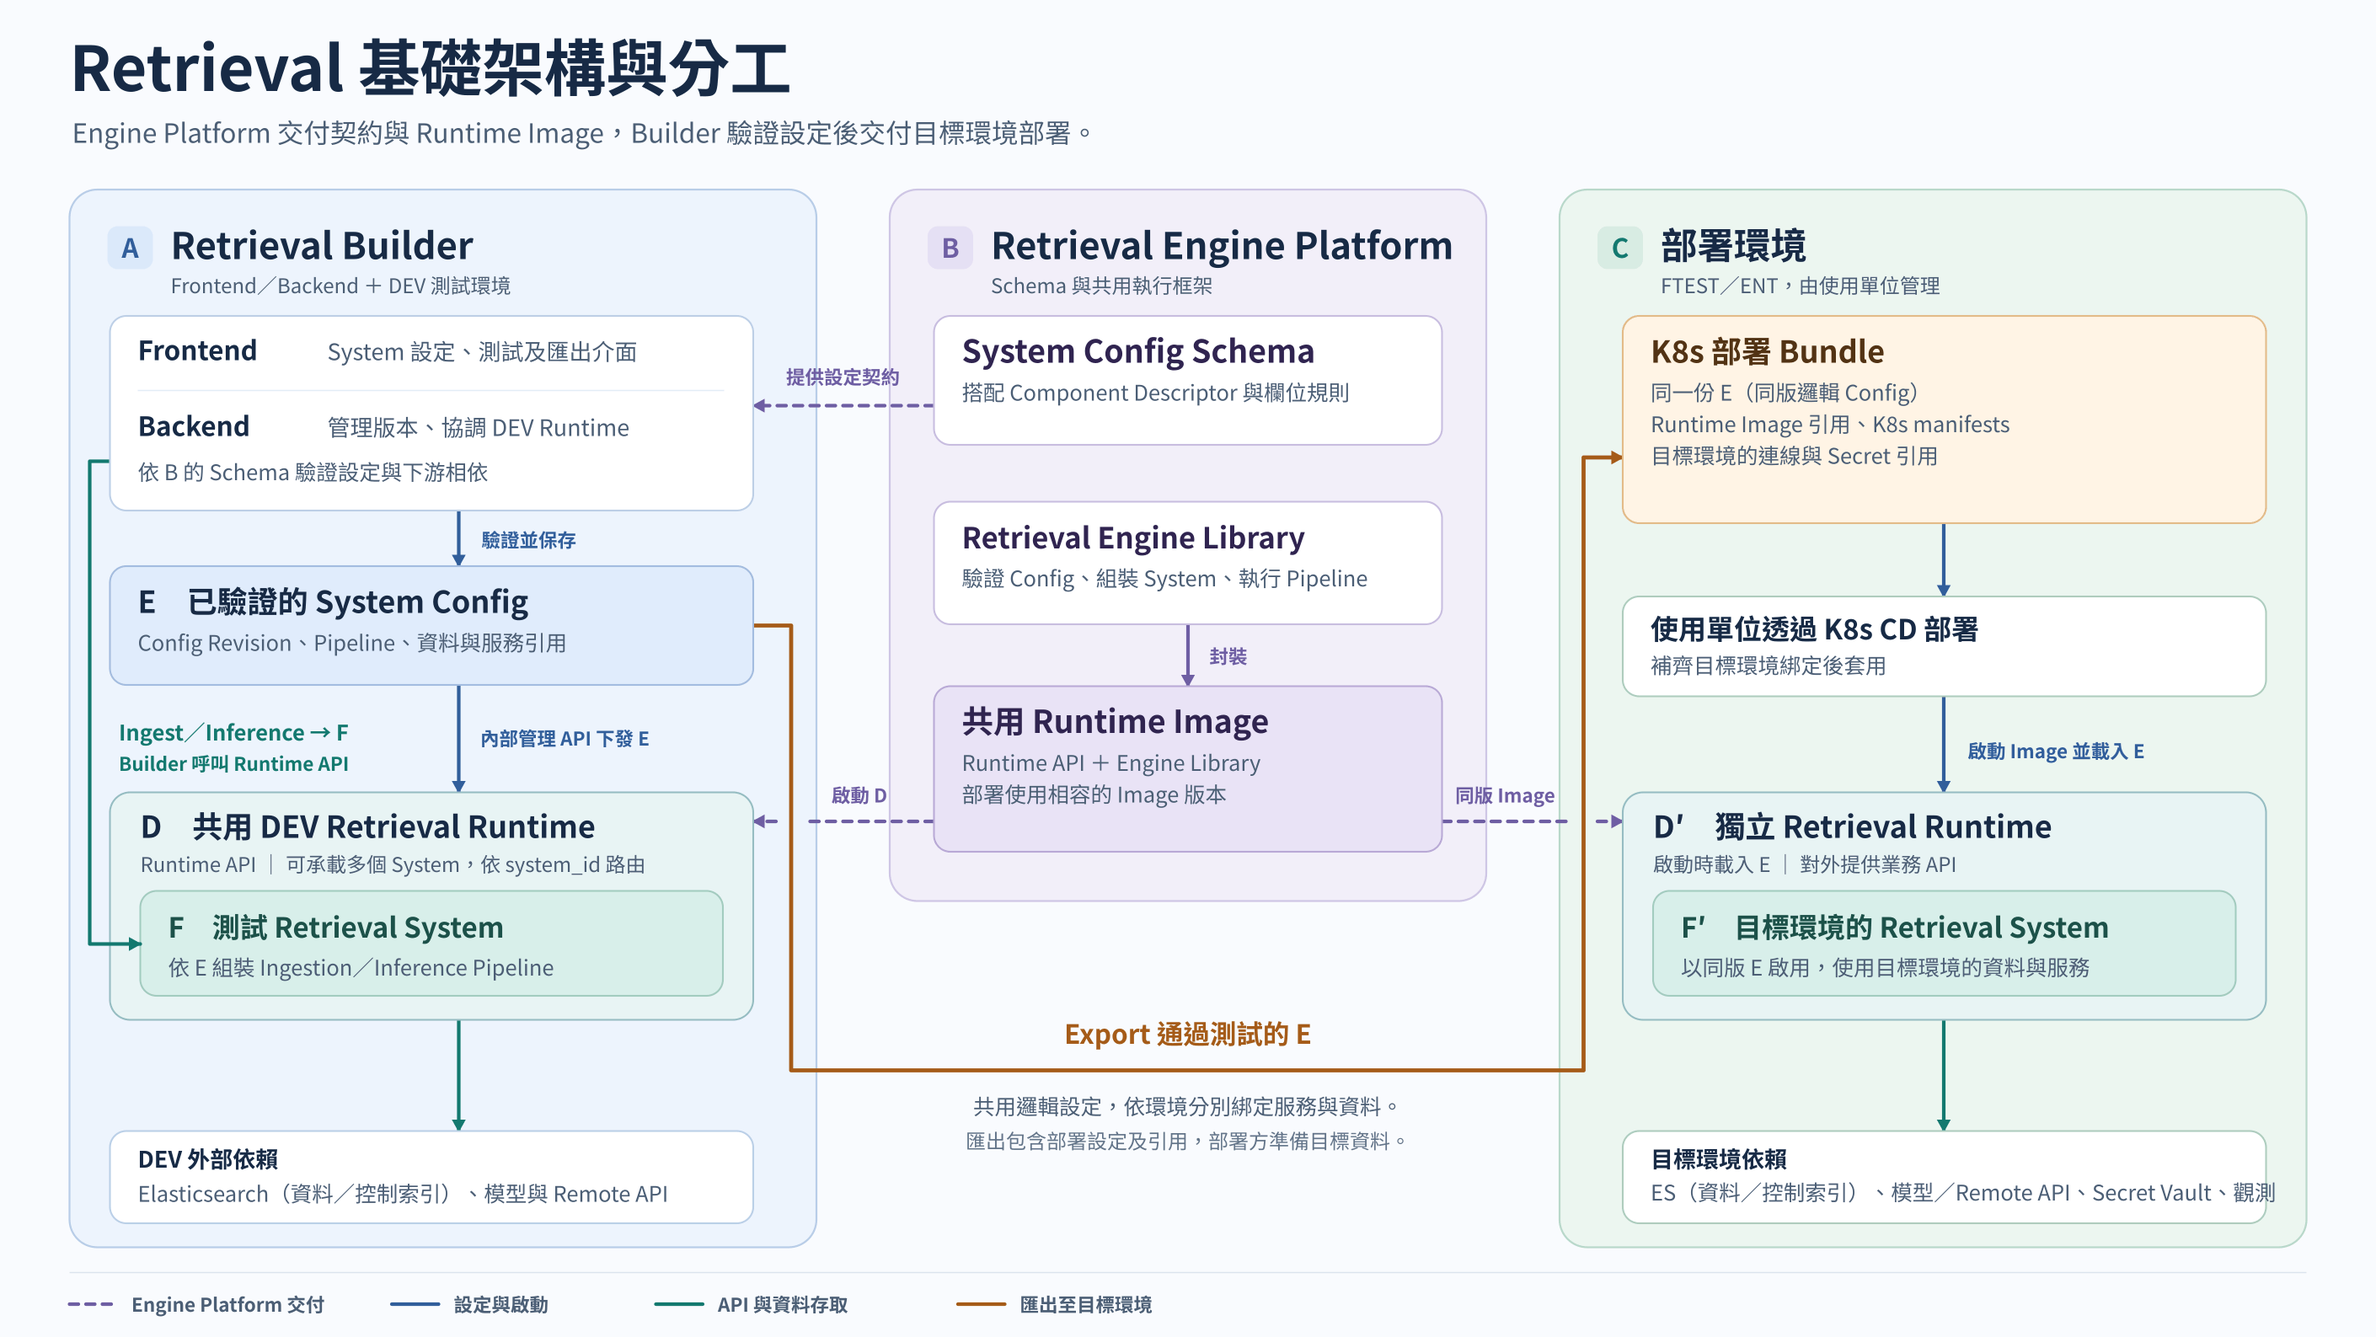
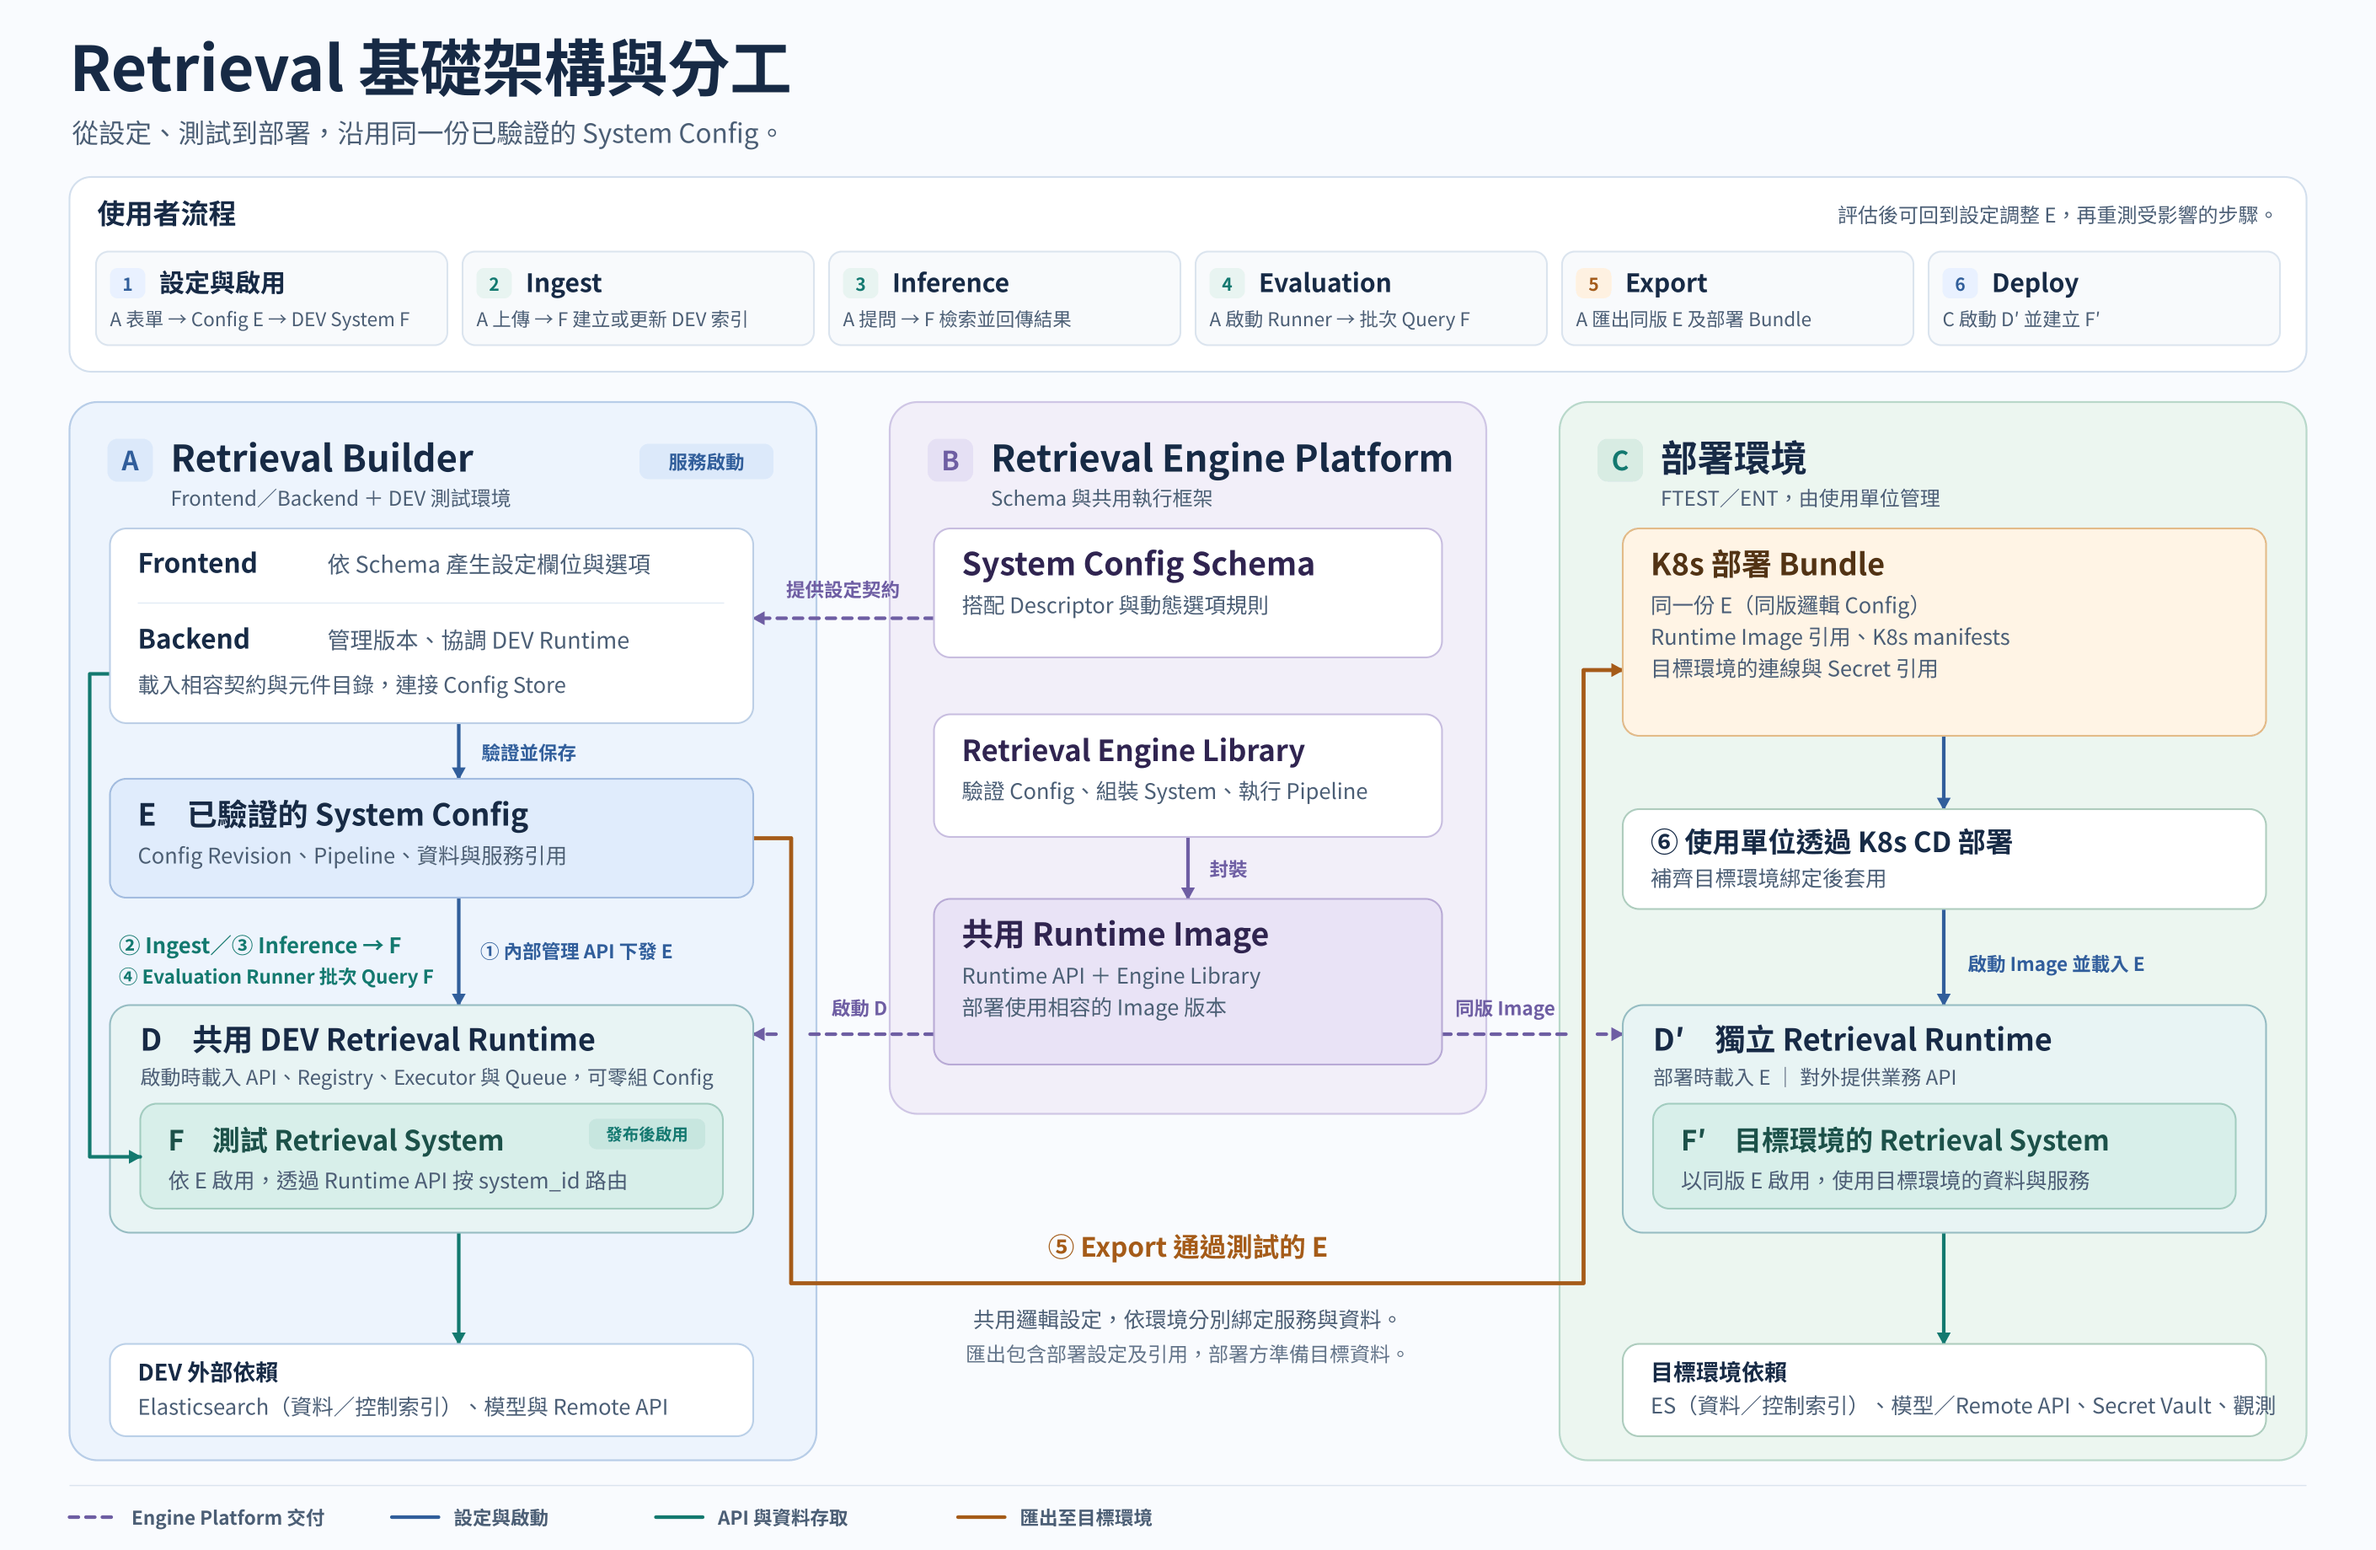
Show builder user flow and runtime initialization in infrastructure diagram

diff --git a/docs/01_architecture.md b/docs/01_architecture.md
@@ -156,11 +156,15 @@ User 在 Workspace 建立 System，選用模板或自行設定 Import、Ingestio
 
 | 圖面區塊 | 責任與交付物 |
 |---|---|
-| **A · Retrieval Builder** | Frontend 提供設定、測試與匯出介面。Backend 依 B 的契約驗證並保存 **E · System Config Revision**。Builder 使用 B 的共用 Runtime Image 啟動共用的 **D · DEV Runtime**，經內部管理 API 下發 E，在 D 中啟用 **F · 測試 Retrieval System**。使用者在 Builder 執行 Ingest／Inference 時，Backend 呼叫 D 的 Runtime API，由 D 依 `system_id` 路由到 F。 |
-| **B · Retrieval Engine Platform** | 提供 System Config Schema 與 Component Descriptor，讓 A 能驗證設定及相依欄位。交付 Engine Library 與共用 Runtime Image。Library 負責依 Config 組裝 System 並執行 Pipeline，Image 則封裝 Runtime API 和 Library。 |
+| **A · Retrieval Builder** | Frontend 依 B 的 System Config Schema 與 Component Descriptor 產生設定欄位和控制項，再用草稿的有效上游欄位、索引及服務能力決定可選值。Backend 驗證並保存 **E · System Config Revision**，經內部管理 API 下發 E，在 **D · 共用 DEV Runtime** 中啟用 **F · 測試 Retrieval System**。Ingest、Inference 和 Evaluation 由 A 發起，D 依 `system_id` 路由到 F。 |
+| **B · Retrieval Engine Platform** | 提供相容版本的 System Config Schema、Component Descriptor 與動態相依規則，供 A 產生表單及驗證設定。交付 Engine Library 與共用 Runtime Image。Library 負責依 Config 組裝 System 並執行 Pipeline，Image 則封裝 Runtime API 和 Library。 |
 | **C · FTEST／ENT 部署** | 使用單位取得 A 匯出的同版 E、Runtime Image 引用、K8s manifests 與目標環境綁定。K8s CD 使用 Image 啟動 **D′ · 獨立 Runtime**，載入 E 後建立 **F′ · 目標環境的 Retrieval System**。使用單位準備 ES、模型／Remote API、Secret 與觀測資源。 |
 
 DEV 與目標環境各自綁定服務及索引。對使用 Elasticsearch 的 System，Runtime 使用檢索資料索引及環境共用的控制索引。匯出交付同版邏輯 Config 和部署所需引用，目標資料由部署方準備或重新匯入。[部署 Bundle 與資料準備](06_runtime_api_and_deployment.md#src-07-91-bundle-目標)
+
+**A 服務啟動時**，提供 Frontend 介面、啟動 Backend 並連接 Config Store，讓 Backend 取得與目標 Runtime 相容的 Schema 和元件目錄。共用 DEV Runtime D 以獨立程序啟動，載入 Runtime API、Engine Library、Registry、共用 Executor 及記憶體 Queue。D 可以零組 System Config 啟動。已有 System 的重新載入依 Runtime 管理規則處理。[Runtime 啟動與管理](06_runtime_api_and_deployment.md#src-07-41-建立與啟動建議流程)
+
+**後續使用者操作**依圖面 1～6 執行。使用者先在 A 設定並發布 E，D 驗證服務／索引綁定後啟用 F。Ingest 由 F 建立或更新 DEV 索引，Inference 呼叫 F 取回查詢結果，Evaluation 由 A 的 Runner 批次呼叫 F。評估後可以調整 E 並重測受影響的步驟。Exporter 交付同版 E 與部署 Bundle，使用單位在 C 啟動 D′，由 D′ 載入 E 建立 F′。[使用者流程](../diagrams/01_user_system_l1.png)
 
 ## 歷史名稱與遷移對照
 
